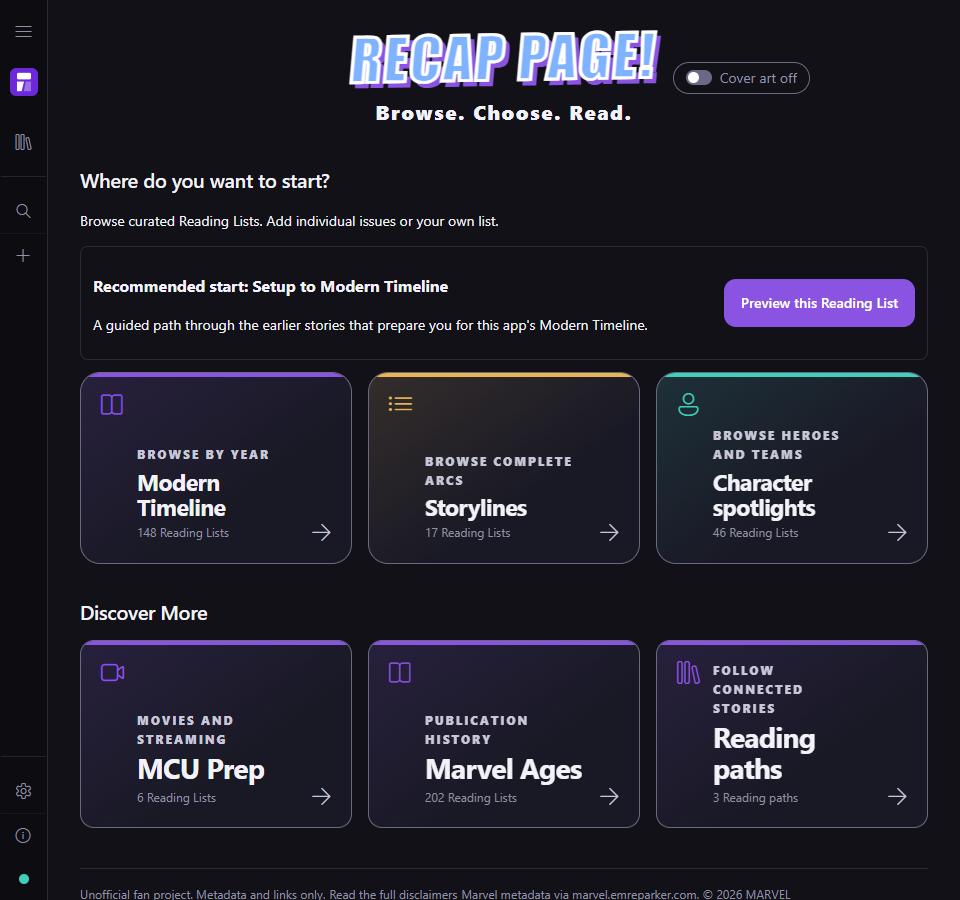
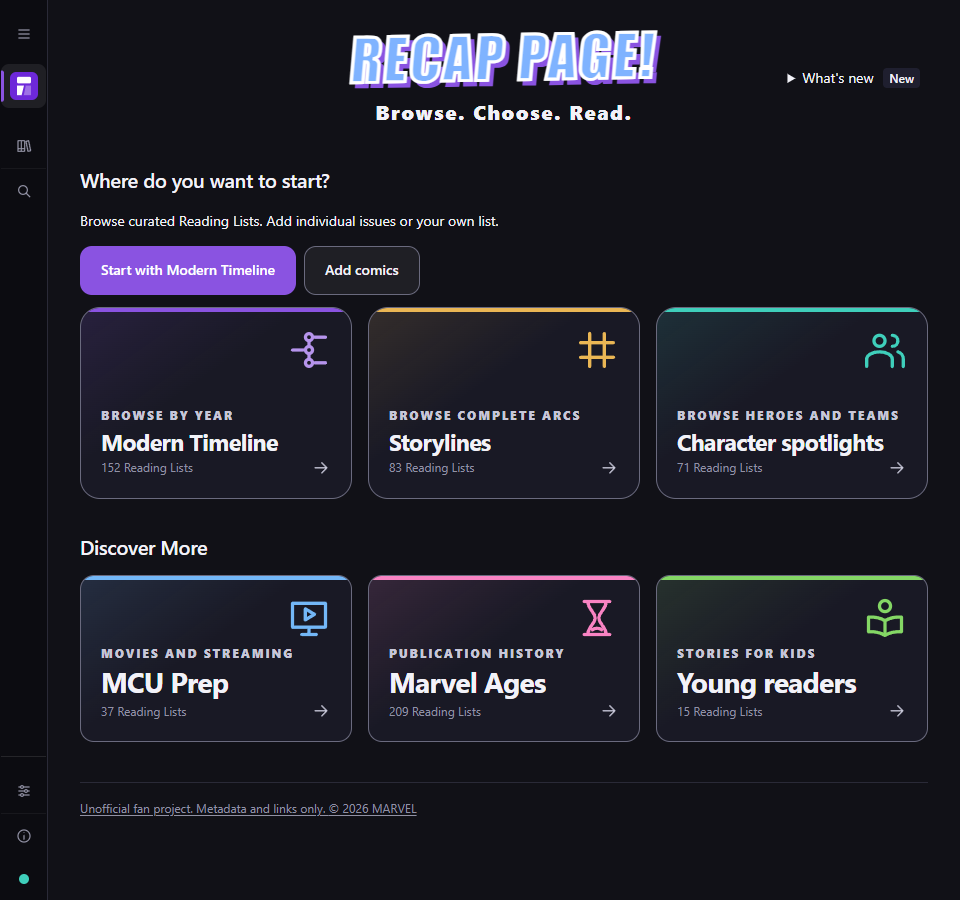
Name the first-run button for where it goes, and send Browse Reading Lists to the categories (UX-15, #830)
Home's first-run button said Browse Reading Lists but opened Modern Timeline, one of the six
category cards sitting directly below it, so a new reader met two competing first steps and a
label promising a choice it did not offer. #830 records the owner's decision to rename it to say
where it goes. It is now "Start with Modern Timeline", with the same id and destination, and the
cards below stay the general choice.

Four more Browse Reading Lists controls had the same mismatch: the empty Everything read,
Progress by series and Your ratings pages, and the Completed lists panel on Home and Library. The
owner chose, verbatim, "Yes, point all four at the reading-list categories on Home and keep their
labels (Recommended)". Each now opens #/browse, Home at its category cards, in the form the
reading view's own Browse Reading Lists link already uses, so the label and the destination agree.
The shared empty-state action learned to carry a place within a view for this. Everything read's
place is written out in the library module, because the route module imports it, and a test holds
the two equal.

Every changed destination has a check: unit tests for the action each screen offers and the
address it formats, and browser checks that follow the ratings, Completed lists and Progress links
and land on the categories with their heading focused. The Android guide names the new button.

README's Home image predated this button and much else that has since changed. It still showed the
[…]

diff --git a/test/completion-view.test.js b/test/completion-view.test.js
@@ -101,7 +101,7 @@ function fixture() {
     getListId: () => h.state.active, history,
     renderSavedLists: (_section, _results, options) => calls.selected.push(options),
     openList: (id) => calls.opened.push(id),
-    showView: (name) => { h.current = name; },
+    showView: (name, options = {}) => { h.current = name; h.at = options.at ?? null; },
     loadCatalog: async () => catalog,
     resolveRecommendations: (options) => h.resolves(options),
     previewRecommendation: (...args) => calls.previewed.push(args),
@@ -222,11 +222,13 @@ test('healthy history keeps exceptional tools disclosed and incidents open witho
   await h.history.complete('a');
   await h.view.render();
   const browse = gateway.children.find((child) => child.id === 'library-completed-browse');
-  assert.equal(browse.href, '#/catalog');
+  // It opens Home's reading-list categories, which its label promises (UX-15, #830).
+  assert.equal(browse.href, '#/browse');
   assert.equal(browse.hidden, false);
   browse.onclick({ button: 0, ctrlKey: true, preventDefault() { assert.fail('native default intercepted'); } });
   browse.onclick({ button: 0, preventDefault() {} });
-  assert.equal(h.current, 'catalog');
+  assert.equal(h.current, 'home');
+  assert.equal(h.at, 'categories');
   assert.equal(h.nodes.historyTroubleshooting.open, false);
   assert.ok(h.nodes.backupHistory.children.includes(h.nodes.historyControls));
   h.history.known = false;

diff --git a/test/library.test.js b/test/library.test.js
@@ -5,7 +5,7 @@ import { join, dirname } from 'node:path';
 import { fileURLToPath } from 'node:url';
 
 import { LIBRARY_VIEWS, libraryView, isLibraryView, libraryViewProblems } from '../src/js/lib/library.js';
-import { ADD_VIEWS } from '../src/js/lib/route.js';
+import { ADD_VIEWS, HOME_CARDS, formatRoute } from '../src/js/lib/route.js';
 import {
   createEmptyState, createList, addIssuesToList, markRead, deleteList, removeFromList,
   readIssues, manualIssues, listsContaining, migrate, SCHEMA_VERSION,
@@ -120,6 +120,14 @@ test('every declared empty-state action names a view the rail can actually reach
       );
     }
   }
+});
+
+// Its label promises the reading-list categories, so that is where it goes (UX-15, #830). The place
+// is written out in library.js because route.js imports that module, so this holds the two equal.
+test('Everything read offers Home at its reading-list categories, the place #/browse names', () => {
+  const action = LIBRARY_VIEWS.find((v) => v.value === 'library-read').emptyAction;
+  assert.deepEqual(action, { label: 'Browse Reading Lists', view: 'home', at: HOME_CARDS });
+  assert.equal(formatRoute(action), '#/browse');
 });
 
 test('Everything read is the read map, newest first', () => {

diff --git a/test/home-view.test.js b/test/home-view.test.js
@@ -272,7 +272,7 @@ test('Home view owns focused first-run choices, saved lists, and shared gateways
   assert.deepEqual(h.calls.navigate, ['catalog', 'catalog', 'add']);
 });
 
-test('first-run Home offers only Browse and Add without waiting for catalog load', () => {
+test('first-run Home offers Modern Timeline and Add without waiting for catalog load', () => {
   const h = harness({ catalogLoader: () => new Promise(() => {}) });
   const before = structuredClone(h.state);
   h.view.render();
@@ -281,7 +281,8 @@ test('first-run Home offers only Browse and Add without waiting for catalog load
   const add = findById(firstRun, 'btn-home-add');
   assert.equal(firstRun.hidden, false);
   assert.equal(findById(firstRun, 'home-recommended'), null);
-  assert.equal(browse.children[0], 'Browse Reading Lists');
+  // Named for where it goes, with the same id and destination (UX-15, #830).
+  assert.equal(browse.children[0], 'Start with Modern Timeline');
   assert.equal(browse.href, '#/catalog');
   assert.equal(browse.class, 'btn');
   assert.equal(add.children[0], 'Add comics');

diff --git a/src/js/lib/library.js b/src/js/lib/library.js
@@ -38,8 +38,10 @@ export const LIBRARY_VIEWS = [
     empty: 'Nothing is marked read yet.',
     // The empty state offers the thing to do rather than describing it. It used to end with
     // "Open a reading order and tick issues off as you go", which is an instruction a reader has
-    // to carry to a different screen and act on from memory.
-    emptyAction: { label: 'Browse Reading Lists', view: 'catalog' },
+    // to carry to a different screen and act on from memory. It opens Home's reading-list
+    // categories, which its label promises (UX-15, #830). `at` is route.js's HOME_CARDS, written
+    // out because route.js imports this module.
+    emptyAction: { label: 'Browse Reading Lists', view: 'home', at: 'categories' },
     // A hand-added issue is otherwise indistinguishable from a curated one here, and it is the
     // one row on this page whose details will never arrive from anywhere.
     markHandAdded: true,

diff --git a/src/js/views/rated-comics.js b/src/js/views/rated-comics.js
@@ -6,7 +6,7 @@ import {
   sortRatedComics,
   topRatedComics,
 } from '../lib/ratedComics.js';
-import { normalizeRatedRoute } from '../lib/route.js';
+import { HOME_CARDS, normalizeRatedRoute } from '../lib/route.js';
 
 const VIEW = 'library-rated';
 const GUIDES_INLINE = 3;
@@ -275,7 +275,8 @@ export function createRatedComicsView({
         els.results.append(el('div', { class: 'empty-state' }, [
           el('div', { class: 'empty-glyph', 'aria-hidden': 'true', text: '\u2606' }),
           el('p', { text: 'You have not rated any comics yet. Open a comic\u2019s Issue details to give it a score.' }),
-          emptyAction({ label: 'Browse Reading Lists', view: 'catalog' }),
+          // Home's reading-list categories, which the label promises (UX-15, #830).
+          emptyAction({ label: 'Browse Reading Lists', view: 'home', at: HOME_CARDS }),
         ]));
         return;
       }

diff --git a/src/js/views/completion.js b/src/js/views/completion.js
@@ -297,15 +297,16 @@ export function createCompletionView({
       let gateway = gateways.get(name);
       if (!gateway) {
         const copy = el('p', { class: 'rail-hint' });
+        // Home's reading-list categories, which the label promises (UX-15, #830).
         const browse = el('a', {
           id: `${name}-completed-browse`,
           class: 'btn',
-          href: formatRoute({ view: 'catalog' }),
+          href: formatRoute({ view: 'home', at: HOME_CARDS }),
           text: 'Browse Reading Lists',
           onclick: (event) => {
             if (!isPlainNavigation(event)) return;
             event?.preventDefault();
-            showView('catalog', { push: true });
+            showView('home', { push: true, at: HOME_CARDS });
           },
         });
         const section = el('section', {

diff --git a/src/js/main.js b/src/js/main.js
@@ -1266,14 +1266,15 @@ function issueFocusAnchor(issue, {
 
 // The action an empty state offers. A screen with nothing on it is the one place a reader has no
 // context to work from, so it hands over the next step rather than naming a control elsewhere.
-function emptyAction({ label, view }) {
+// `at` names a place within the view, as Home's reading-list categories are (#831).
+function emptyAction({ label, view, at = null }) {
   return el('a', {
     class: 'btn btn-g',
-    href: formatRoute({ view }),
+    href: formatRoute({ view, at }),
     onclick: (event) => {
       if (!isPlainNavigation(event)) return;
       event.preventDefault();
-      navigateTo(view);
+      navigateTo(view, at);
     },
   }, label);
 }

diff --git a/src/js/views/progress.js b/src/js/views/progress.js
@@ -3,6 +3,7 @@ import {
   progressSummary,
   seriesProgress,
 } from '../lib/model.js';
+import { HOME_CARDS } from '../lib/route.js';
 
 export function createProgressView({
   el,
@@ -82,7 +83,8 @@ export function createProgressView({
         results.append(el('div', { class: 'empty-state' }, [
           el('div', { class: 'empty-glyph', 'aria-hidden': 'true', text: '☐' }),
           el('p', { text: 'Nothing tracked yet.' }),
-          emptyAction({ label: 'Browse Reading Lists', view: 'catalog' }),
+          // Home's reading-list categories, which the label promises (UX-15, #830).
+          emptyAction({ label: 'Browse Reading Lists', view: 'home', at: HOME_CARDS }),
         ]));
         return;
       }

diff --git a/src/js/views/home.js b/src/js/views/home.js
@@ -87,6 +87,7 @@ export function createHomeView({
         text: 'Browse curated Reading Lists. Add individual issues or your own list.',
       }),
       el('div', { class: 'cta home-start-actions' }, [
+        // Named for where it goes (UX-15, #830): the reading-list categories sit right below it.
         el('a', {
           href: formatRoute({ view: 'catalog' }),
           class: 'btn',
@@ -96,7 +97,7 @@ export function createHomeView({
             event?.preventDefault();
             onNavigateHub('catalog');
           },
-        }, 'Browse Reading Lists'),
+        }, 'Start with Modern Timeline'),
         el('a', {
           href: formatRoute({ view: 'add' }),
           class: 'btn btn-g',

diff --git a/test/rated-comics-view.test.js b/test/rated-comics-view.test.js
@@ -325,3 +325,10 @@ test('a blocked store shows recovery guidance instead of ratings on both surface
   assert.equal(action.action.view, 'data');
   assert.doesNotMatch(texts(h.els.results), /Your rating: /);
 });
+
+test('with nothing rated yet, Browse Reading Lists opens Home at its reading-list categories', () => {
+  const h = harness({ ratings: {}, issues: {} });
+  h.view.renderBrowser();
+  const action = find(h.els.results, (n) => n.kind === 'empty-action');
+  assert.deepEqual(action?.action, { label: 'Browse Reading Lists', view: 'home', at: 'categories' });
+});

diff --git a/pages/index.html b/pages/index.html
@@ -230,7 +230,7 @@
                 width="960"
                 height="900"
                 loading="lazy"
-                alt="Home with a recommended starting guide, Modern Timeline, Storylines, and Character spotlights"
+                alt="Home with Start with Modern Timeline, Add comics, and the Modern Timeline, Storylines, Character spotlights, MCU Prep, Marvel Ages, and Young readers categories"
               />
               <figcaption>
                 Choose where to start.

diff --git a/test/progress-view.test.js b/test/progress-view.test.js
@@ -153,7 +153,8 @@ test('the Progress controller owns scope changes and renders list and all-list c
   assert.equal(harness.nodes.radios[1].checked, true);
   assert.deepEqual(harness.nodes.results.children[0].children[2], {
     kind: 'empty-action',
-    action: { label: 'Browse Reading Lists', view: 'catalog' },
+    // Home's reading-list categories, which the label promises (UX-15, #830).
+    action: { label: 'Browse Reading Lists', view: 'home', at: 'categories' },
   });
 });
 
